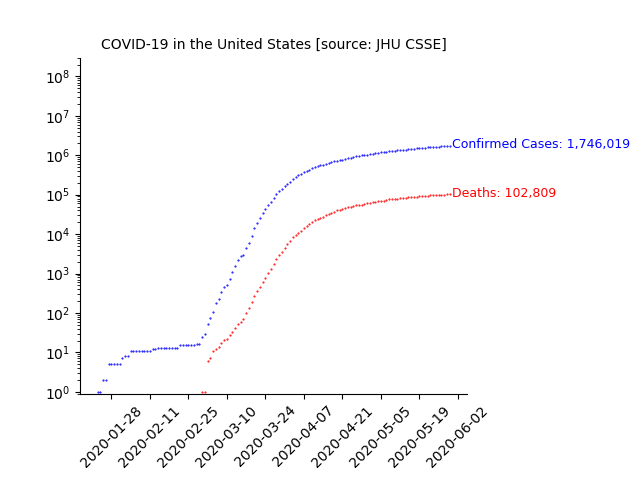
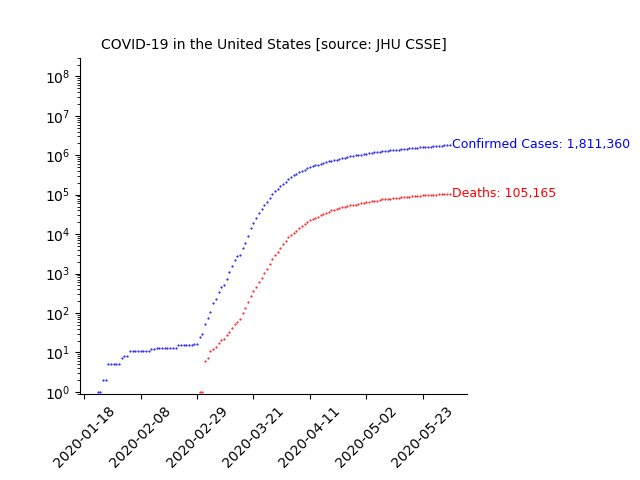
state deaths plotting; 2020-06-01 update

diff --git a/plot_us.py b/plot_us.py
@@ -10,13 +10,16 @@ us_deaths = pd.read_csv('csse_covid_19_data/csse_covid_19_time_series/time_serie
 # parse and plot
 cases_us = us_confirmed.sum().values[10:]
 deaths_us = us_deaths.sum().values[11:]
+deaths_ma = us_deaths[us_deaths['Province_State']=='Massachusetts'].sum().values[12:]
+deaths_pa = us_deaths[us_deaths['Province_State']=='Pennsylvania'].sum().values[12:]
+deaths_nc = us_deaths[us_deaths['Province_State']=='North Carolina'].sum().values[12:]
 
 # time series dates (columns) as timestamps
 dates = []
 for ii in us_confirmed.columns[11:]:
     dates.append(dt.datetime.strptime(ii + ' 23:59', '%m/%d/%y %H:%M'))
 
-# plot country comparisons
+# confirmed cases over time (log scale)
 fig, ax = plt.subplots()
 
 plt.semilogy(dates[np.where(cases_us>0)[0][0]:], cases_us[cases_us>0], 'b.', ms=1)
@@ -36,6 +39,7 @@ plt.title('COVID-19 in the United States [source: JHU CSSE]', fontsize=10)
 # plt.legend()
 plt.show()
 
+# daily deaths + trailing average (US)
 daily_deaths = deaths_us[1:] - deaths_us[:-1]
 fig, ax = plt.subplots()
 plt.bar(dates[1:], daily_deaths, width=1)
@@ -45,6 +49,42 @@ fig.subplots_adjust(bottom=0.18)
 ax.spines['right'].set_visible(False)
 ax.spines['top'].set_visible(False)
 plt.ylabel('new reported deaths by day [source: JHU CSSE]')
+plt.show()
+
+# daily deaths + trailing average (MA)
+daily_deaths = deaths_ma[1:] - deaths_ma[:-1]
+fig, ax = plt.subplots()
+plt.bar(dates[1:], daily_deaths, width=1)
+plt.plot(dates[7:], (daily_deaths[:-6]+daily_deaths[1:-5]+daily_deaths[2:-4]+daily_deaths[3:-3]+daily_deaths[4:-2]+daily_deaths[5:-1]+daily_deaths[6:])/7, 'r.-')
+ax.xaxis.set_tick_params(rotation=45, labelsize=10)
+fig.subplots_adjust(bottom=0.18)
+ax.spines['right'].set_visible(False)
+ax.spines['top'].set_visible(False)
+plt.ylabel('new reported MA deaths by day [source: JHU CSSE]')
+plt.show()
+
+# daily deaths + trailing average (PA)
+daily_deaths = deaths_pa[1:] - deaths_pa[:-1]
+fig, ax = plt.subplots()
+plt.bar(dates[1:], daily_deaths, width=1)
+plt.plot(dates[7:], (daily_deaths[:-6]+daily_deaths[1:-5]+daily_deaths[2:-4]+daily_deaths[3:-3]+daily_deaths[4:-2]+daily_deaths[5:-1]+daily_deaths[6:])/7, 'r.-')
+ax.xaxis.set_tick_params(rotation=45, labelsize=10)
+fig.subplots_adjust(bottom=0.18)
+ax.spines['right'].set_visible(False)
+ax.spines['top'].set_visible(False)
+plt.ylabel('new reported PA deaths by day [source: JHU CSSE]')
+plt.show()
+
+# daily deaths + trailing average (NC)
+daily_deaths = deaths_nc[1:] - deaths_nc[:-1]
+fig, ax = plt.subplots()
+plt.bar(dates[1:], daily_deaths, width=1)
+plt.plot(dates[7:], (daily_deaths[:-6]+daily_deaths[1:-5]+daily_deaths[2:-4]+daily_deaths[3:-3]+daily_deaths[4:-2]+daily_deaths[5:-1]+daily_deaths[6:])/7, 'r.-')
+ax.xaxis.set_tick_params(rotation=45, labelsize=10)
+fig.subplots_adjust(bottom=0.18)
+ax.spines['right'].set_visible(False)
+ax.spines['top'].set_visible(False)
+plt.ylabel('new reported NC deaths by day [source: JHU CSSE]')
 plt.show()
 
 # select local data
